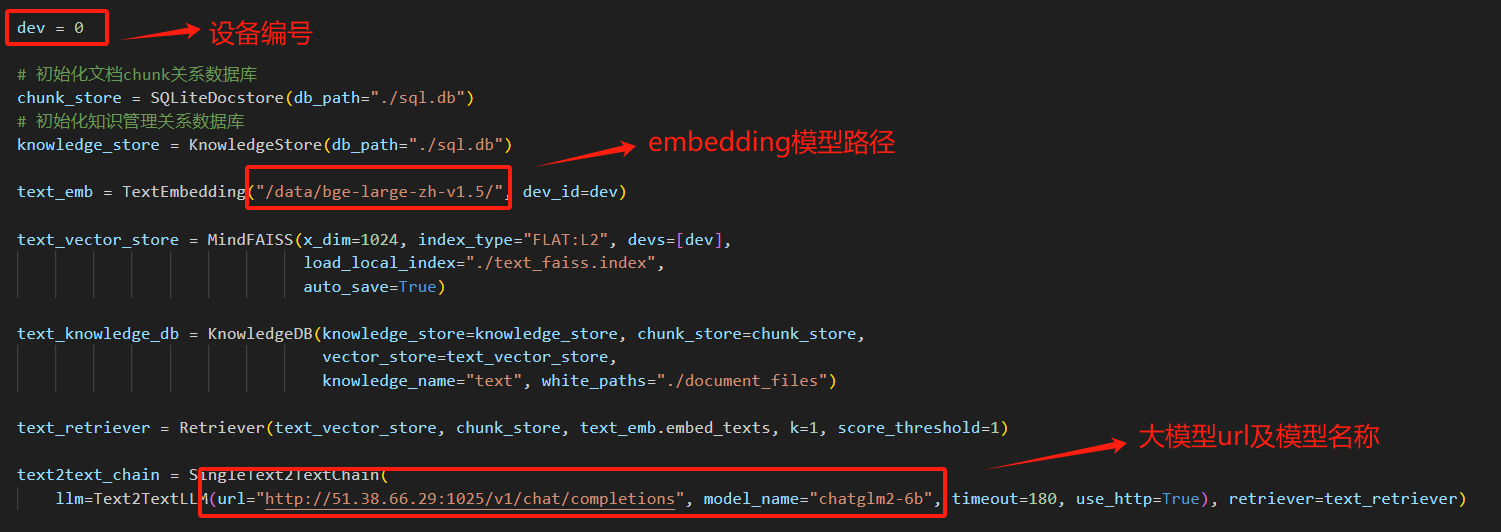
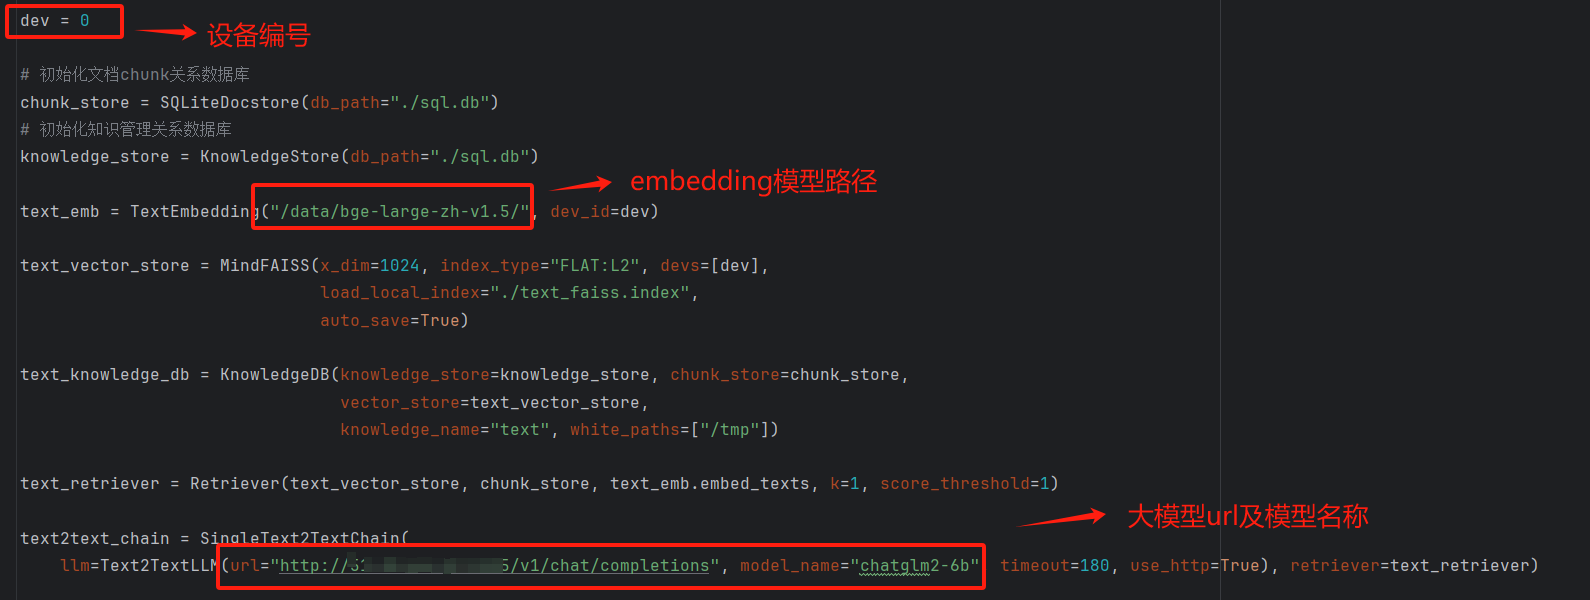
蓝区代码整改，Readme更新

diff --git a/mxRAG/MainRepo/Samples/RagDemo/rag_demo_cache_qa.py b/mxRAG/MainRepo/Samples/RagDemo/rag_demo_cache_qa.py
@@ -22,18 +22,18 @@ import traceback
 
 def rag_cache_demo():
     parse = argparse.ArgumentParser()
-    parse.add_argument("--embedding_path", type=str, default="/home/data/acge_text_embedding")
-    parse.add_argument("--embedding_dim", type=int, default=1024)
-    parse.add_argument("--reranker_path", type=str, default="home/data/bge-reranker-large")
-    parse.add_argument("--white_path", type=list[str], default=["/home"])
-    parse.add_argument("--file_path", type=str, default="/home/HwHiAiUser/gaokao.md")
-    parse.add_argument("--cache_save_path", type=str, default="/home/HwHiAiUser/cache_dave_dir")
-    parse.add_argument("--llm_url", type=str, default="http://<ip>:<port>/v1/chat/completions")
-    parse.add_argument("--model_name", type=str, default="Llama3-8B-Chinese-Chat")
-    parse.add_argument("--score_threshold", type=float, default=0.5)
-    parse.add_argument("--query", type=str, default="请描述2024年高考作文题目")
-    parse.add_argument("--tokenizer_path", type=str, default="/home/data/Llama3-8B-Chinese-Chat/")
-    parse.add_argument("--npu_device_id", type=int, default=0)
+    parse.add_argument("--embedding_path", type=str, default="/home/data/acge_text_embedding", metavar="", help="embedding模型本地路径;类型:str")
+    parse.add_argument("--embedding_dim", type=int, default=1024, metavar="", help="embedding模型向量维度;类型:int;默认值:1024")
+    parse.add_argument("--reranker_path", type=str, default="home/data/bge-reranker-large", metavar="", help="reranker模型本地路径;类型:str")
+    parse.add_argument("--white_path", nargs='+', default=["/home"], metavar="", help="白名单路径，文件需在白名单路径下")
+    parse.add_argument("--file_path", type=str, default="/home/HwHiAiUser/gaokao.md", metavar="", help="要上传的文件路径，需在白名单路径下")
+    parse.add_argument("--cache_save_path", type=str, default="/home/HwHiAiUser/cache_save_dir", metavar="", help="缓存地址")
+    parse.add_argument("--llm_url", type=str, default="http://127.0.0.1:1025/v1/chat/completions", metavar="", help="大模型url地址;类型:str")
+    parse.add_argument("--model_name", type=str, default="Llama3-8B-Chinese-Chat", metavar="", help="大模型名称;类型:str")
+    parse.add_argument("--score_threshold", type=float, default=0.5, metavar="", help="相似性得分的阈值，大于阈值认为检索的信息与问题越相关,取值范围[0,1];类型:float;默认值:0.5")
+    parse.add_argument("--query", type=str, default="请描述2024年高考作文题目", metavar="", help="用户问题;类型:str")
+    parse.add_argument("--tokenizer_path", type=str, default="/home/data/Llama3-8B-Chinese-Chat/", metavar="", help="大模型tokenizer参数路径;类型:str")
+    parse.add_argument("--npu_device_id", type=int, default=0, metavar="", help="NPU设备ID;类型:int;默认值:0")
     args = parse.parse_args()
 
     try:

diff --git a/mxRAG/MainRepo/Samples/RagDemo/rag_demo_query.py b/mxRAG/MainRepo/Samples/RagDemo/rag_demo_query.py
@@ -18,17 +18,17 @@ import traceback
 
 def rag_demo_query():
     parse = argparse.ArgumentParser()
-    parse.add_argument("--embedding_path", type=str, default="/home/data/acge_text_embedding")
-    parse.add_argument("--tei_emb", type=bool, default=False)
-    parse.add_argument("--embedding_url", type=str, default="http://127.0.0.1:8080/embed")
-    parse.add_argument("--embedding_dim", type=int, default=1024)
-    parse.add_argument("--llm_url", type=str, default="http://<ip>:<port>/v1/chat/completions")
-    parse.add_argument("--model_name", type=str, default="Llama3-8B-Chinese-Chat")
-    parse.add_argument("--score_threshold", type=float, default=0.5)
-    parse.add_argument("--tei_reranker", type=bool, default=False)
-    parse.add_argument("--reranker_path", type=str, default=None)
-    parse.add_argument("--reranker_url", type=str,  default="http://127.0.0.1:8080/rerank ")
-    parse.add_argument("--query", type=str, default="请描述2024年高考作文题目")
+    parse.add_argument("--embedding_path", type=str, default="/home/data/acge_text_embedding", metavar="", help="embedding模型本地路径;类型:str")
+    parse.add_argument("--tei_emb", type=bool, default=False, metavar="", help="是否使用TEI服务化的embedding模型;类型:bool;默认值:False")
+    parse.add_argument("--embedding_url", type=str, default="http://127.0.0.1:8080/embed", metavar="", help="使用TEI服务化的embedding模型url地址;类型:str")
+    parse.add_argument("--embedding_dim", type=int, default=1024, metavar="", help="embedding模型向量维度;类型:int;默认值:1024")
+    parse.add_argument("--llm_url", type=str, default="http://127.0.0.1:1025/v1/chat/completions", metavar="", help="大模型url地址;类型:str")
+    parse.add_argument("--model_name", type=str, default="Llama3-8B-Chinese-Chat", metavar="", help="大模型名称;类型:str")
+    parse.add_argument("--score_threshold", type=float, default=0.5, metavar="", help="相似性得分的阈值，大于阈值认为检索的信息与问题越相关,取值范围[0,1];类型:float;默认值:0.5")
+    parse.add_argument("--tei_reranker", type=bool, default=False, metavar="", help="是否使用TEI服务化的reranker模型;类型:bool;默认值:False")
+    parse.add_argument("--reranker_path", type=str, default=None, metavar="", help="reranker模型本地路径;类型:str;默认值:None")
+    parse.add_argument("--reranker_url", type=str,  default=None, metavar="", help="使用TEI服务化的embedding模型url地址;类型:str;默认值:None")
+    parse.add_argument("--query", type=str, default="请描述2024年高考作文题目", metavar="", help="用户问题;类型:str")
 
     args = parse.parse_args().__dict__
     embedding_path: str = args.pop('embedding_path')

diff --git a/mxRAG/PocValidation/chat_with_ascend/app.py b/mxRAG/PocValidation/chat_with_ascend/app.py
@@ -5,6 +5,7 @@ import os
 import shutil
 import gradio as gr
 from pathlib import Path
+from paddle.base import libpaddle
 from typing import List, Dict, Tuple
 from mx_rag.chain import SingleText2TextChain, Text2ImgChain, Img2ImgChain
 from mx_rag.document.loader import DocxLoader, ExcelLoader, PdfLoader
@@ -13,7 +14,6 @@ from mx_rag.embedding.local import TextEmbedding, ImageEmbedding
 from mx_rag.knowledge import KnowledgeDB
 from mx_rag.knowledge.knowledge import KnowledgeStore
 from mx_rag.llm import Text2TextLLM, Text2ImgMultiModel, Img2ImgMultiModel
-from mx_rag.reranker.local import LocalReranker
 from mx_rag.retrievers import Retriever
 from mx_rag.storage.document_store import SQLiteDocstore
 from mx_rag.storage.vectorstore import MindFAISS
@@ -76,7 +76,7 @@ text_knowledge_db = KnowledgeDB(knowledge_store=knowledge_store, chunk_store=chu
 text_retriever = Retriever(text_vector_store, chunk_store, text_emb.embed_texts, k=1, score_threshold=1)
 
 text2text_chain = SingleText2TextChain(
-    llm=Text2TextLLM(url="http://51.38.66.29:1025/v1/chat/completions", model_name="chatglm2-6b", timeout=180, use_http=True), retriever=text_retriever)
+    llm=Text2TextLLM(url="http://127.0.0.1:1025/v1/chat/completions", model_name="chatglm2-6b", timeout=180, use_http=True), retriever=text_retriever)
 
 # 知识文档存储路径
 SAVE_FILE_PATH = "tmp/document_files"
@@ -109,7 +109,7 @@ def clear_history(history):
 
 
 def check_file_type(file):
-    file_type = os.path.splitext(file)[1].lower()
+    file_type = os.path.splitext(file.name)[1].lower()
     support_typs = SUPPORT_DOC_TYPE + SUPPORT_IMAGE_TYPE
     return file_type in support_typs
 

diff --git a/mxRAG/MainRepo/Samples/RagDemo/rag_demo_knowledge.py b/mxRAG/MainRepo/Samples/RagDemo/rag_demo_knowledge.py
@@ -20,12 +20,12 @@ import traceback
 
 def rag_demo_upload():
     parse = argparse.ArgumentParser()
-    parse.add_argument("--embedding_path", type=str, default="/home/data/acge_text_embedding")
-    parse.add_argument("--tei_emb", type=bool, default=False)
-    parse.add_argument("--embedding_url", type=str, default="http://127.0.0.1:8080/embed")
-    parse.add_argument("--embedding_dim", type=int, default=1024)
-    parse.add_argument("--white_path", nargs='+', default=["/home"])
-    parse.add_argument("--file_path", nargs='+', default=["/home/HwHiAiUser/gaokao.txt"])
+    parse.add_argument("--embedding_path", type=str, default="/home/data/acge_text_embedding", metavar="", help="embedding模型本地路径;类型:str")
+    parse.add_argument("--tei_emb", type=bool, default=False, metavar="", help="是否使用TEI服务化的embedding模型;类型:bool;默认值:False")
+    parse.add_argument("--embedding_url", type=str, default="http://127.0.0.1:8080/embed", metavar="", help="使用TEI服务化的embedding模型url地址;类型:str")
+    parse.add_argument("--embedding_dim", type=int, default=1024, metavar="", help="embedding模型向量维度;类型:int;默认值:1024")
+    parse.add_argument("--white_path", nargs='+', default=["/home"], metavar="", help="白名单路径，文件需在白名单路径下")
+    parse.add_argument("--file_path", nargs='+', default=["/home/HwHiAiUser/gaokao.txt"], metavar="", help="要上传的文件路径，需在白名单路径下")
 
     args = parse.parse_args().__dict__
     embedding_path: str = args.pop('embedding_path')

diff --git a/mxRAG/MainRepo/Samples/RagDemo/README.md b/mxRAG/MainRepo/Samples/RagDemo/README.md
@@ -10,7 +10,7 @@
 
 1.rag_demo_knowledge.py为"创建知识库"样例代码; rag_demo_query为"在线问答"样例代码。
 
-2."创建知识库"样例和"在线问答"样例是以FLATL2检索方式为例，当参数tei_emb为False时表示本地启动embedding模型，embedding_path传入本地模型地址,当参数tei_emb为True时，表示启动服务化模型，embedding_path传入服务化模型URI地址；reranker同理，其中reranker为可选过程，默认不使用。
+2."创建知识库"样例和"在线问答"样例是以FLATL2检索方式为例，当参数tei_emb为False时表示本地启动embedding模型，需传入参数embedding_path,当参数tei_emb为True时，表示启动服务化模型，需传入参数embedding_url；reranker同理，其中reranker为可选过程，默认不使用。
 
 3.rag_demo_cache_qa.py对应"MxRAGCache缓存和自动生成QA"样例。
 
@@ -20,22 +20,8 @@
 
 
 ## 运行及参数说明
-1.修改对应参数
-```commandline
-以FLATL2检索方式为例,其他样例参数如有不同请参考《MindX SDK mxRAG用户指南》"接口参考"章节。
- --embedding_path表示embedding模型的本地路径，根据用户实际路径配置。
- --tei_emb表示是否使用TEI服务化的embedding模型，默认False,为True时reranker_path表示模型url地址。
- --embedding_dim表示embedding模型向量维度，根据使用的具体模型修改，默认值1024。
- --white_path表示白名单地址，文件路径需在白名单路径下，根据用户实际路径配置。
- --file_path表示要上传的文件路径，需在白名单路径下，根据用户文件存在的实际路径配置。
- --llm_url表示大模型url地址。
- --model_name表示大模型名称。
- --score_threshold表示相似性得分的阈值，大于阈值认为检索的信息与问题越相关，取值范围[0,1]。
- --tei_reranker表示是否使用TEI服务化的reranker模型，默认False,为True时reranker_path表示模型url地址。
- --reranker_path表示reranker模型本地路径。
- --query表示用户问题
-```
-2.调用示例
+
+1.调用示例
 ```commandline
 # 上传知识库
 python3 rag_demo_knowledge.py  --file_path "/home/data/MindIE.docx" "/home/data/gaokao.docx"  
@@ -43,4 +29,10 @@ python3 rag_demo_knowledge.py  --file_path "/home/data/MindIE.docx" "/home/data/
 # 在线问答
 python3 rag_demo_query.py --query "请描述2024年高考作为题目"   
 ```
-说明:其他参数也可通过命令行的方式传入
+说明:调用示例前请先根据用户实际情况完成参数配置,确保embedding模型路径正确，大模型能正常访问，文件路径正确等，参数可以通过修改样例代码，也可通过命令行的方式传入。
+
+2.参数说明
+```commandline
+以"创建知识库"为例,用户可以通过以下命令查看参数情况;如需开发其他样例,请详细参考《MindX SDK mxRAG用户指南》"接口参考"章节。
+python3 rag_demo_knowledge.py  --help
+```

diff --git a/mxRAG/MainRepo/README.md b/mxRAG/MainRepo/README.md
@@ -27,11 +27,11 @@ mxRAG是昇腾面向大预言模型的知识增强开发套件，为解决大模
 支持的软件运行环境为:Ubuntu 22.04，Python3.10或Python3.11
 
 ## 目录结构与说明
-| 目录       | 说明                                                                                              |
-|----------|-------------------------------------------------------------------------------------------------|
-| Dockerfile     | 部署mxRAG容器,用户若自行准备镜像文件的参考样例，对应用户手册《安装mxRAG》章节。                                                   |
-| Samples   | mxRAG完整开发流程的开发参考样例,包含"创建知识库"、"在线问答"、"MxRAGCache缓存和自动生成QA"、以及prompt压缩支持的长文档问答、长文档总结、日志分析场景提供样例代码 |                                                          |
-| langgraph    | Agentic RAG样例                                                                                   |
-| patches   | mxRAG补丁安装文件,包括支持融合算子、支持TEI、支持whisper模型。                                                         |
-| sd_samples  | 安装并运行stable_diffusion模型参考样例。                                                                    |
+| 目录       | 说明                                                    |
+|----------|-------------------------------------------------------|
+| Dockerfile     | 部署mxRAG容器,用户若自行准备镜像文件的参考样例，对应用户手册《安装mxRAG》章节。         |
+| Samples   | mxRAG完整开发流程的开发参考样例,包含"创建知识库"、"在线问答"、"MxRAGCache缓存和自动生成QA"。 |
+| langgraph    | Agentic RAG样例。                                        |
+| patches   | mxRAG补丁安装文件,包括支持融合算子、支持TEI、支持whisper模型。               |
+| sd_samples  | 安装并运行stable_diffusion模型参考样例。                          |
 

diff --git a/mxRAG/PocValidation/code_with_ascend/README.md b/mxRAG/PocValidation/code_with_ascend/README.md
@@ -35,10 +35,12 @@ npm install
 npm run compile
 ```
 
-启动调试插件
+### 启动调试插件
 
 在code with ascend设置中填写关于你使用的大模型的url和模型名称，成功后即可开始使用插件
 
+### 设置url和模型名称
+启动调试插件后，点击vscode Settings->Extensions->Code With Ascend Configuration设置对接的大模型url和名称
 ## 环境依赖
 
 | 软件     | 版本要求     |

diff --git a/mxRAG/PocValidation/chat_with_ascend/readme.md b/mxRAG/PocValidation/chat_with_ascend/readme.md
@@ -46,8 +46,6 @@
 
     python3 app.py
 
-
-
     
 
 
